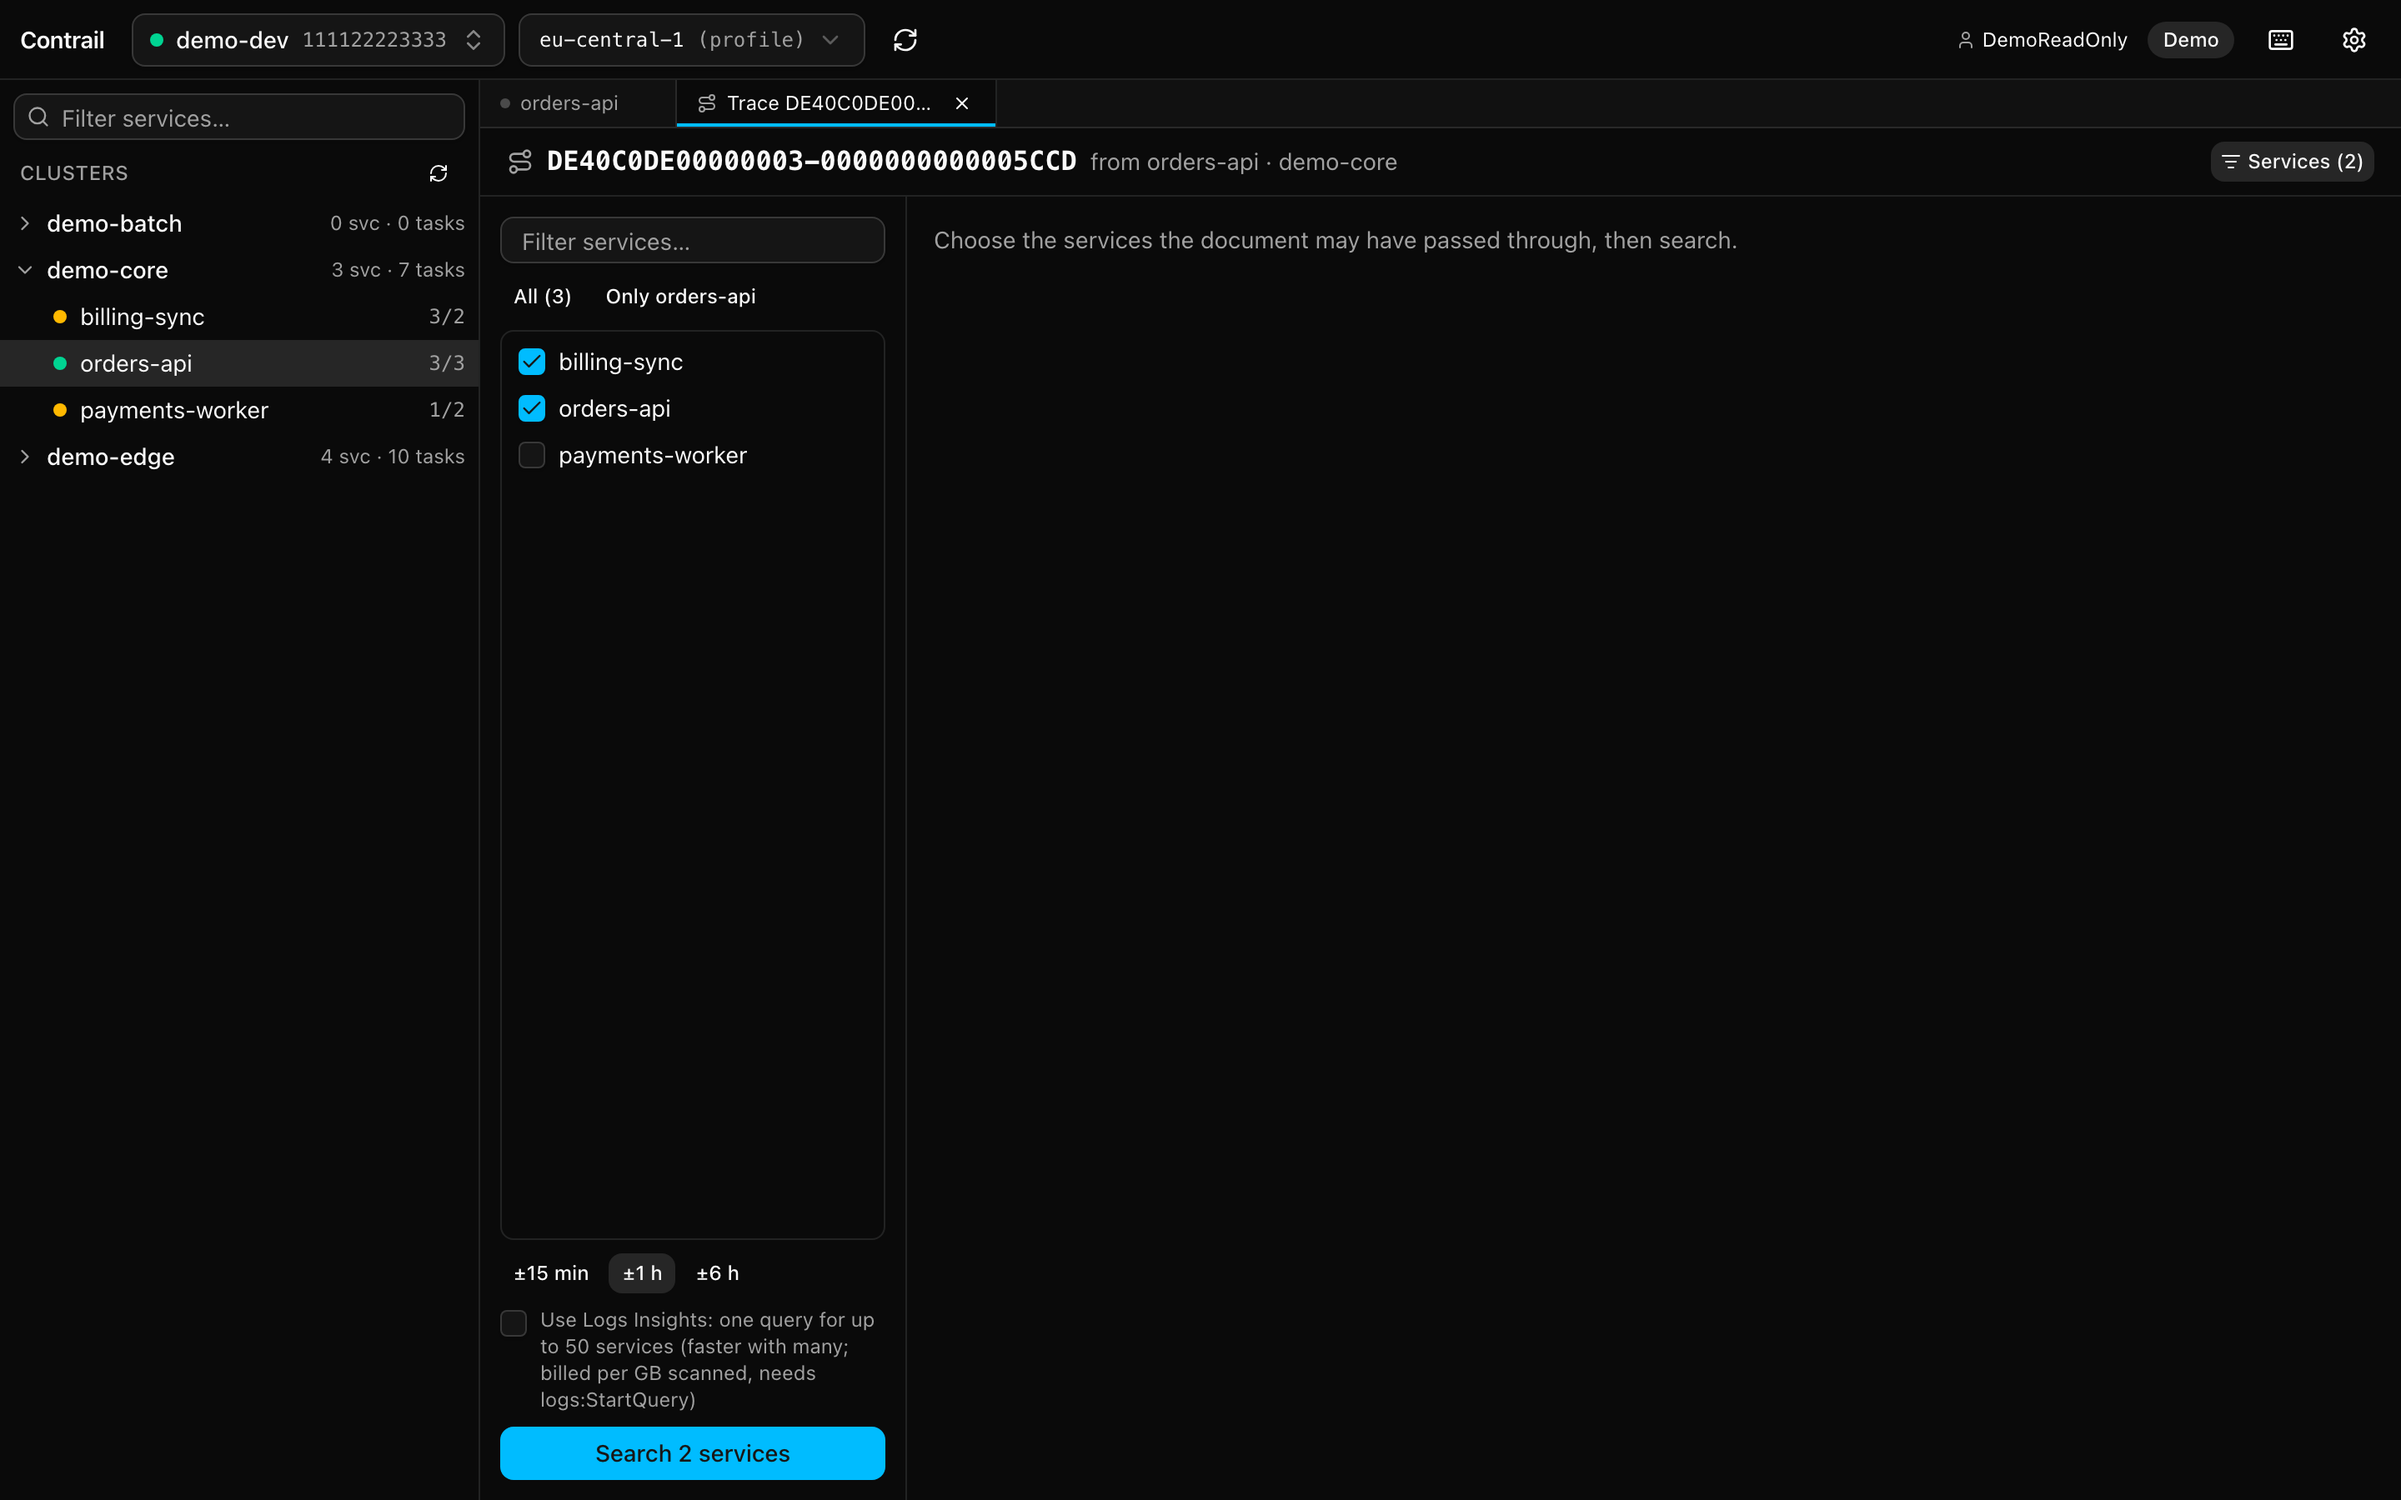
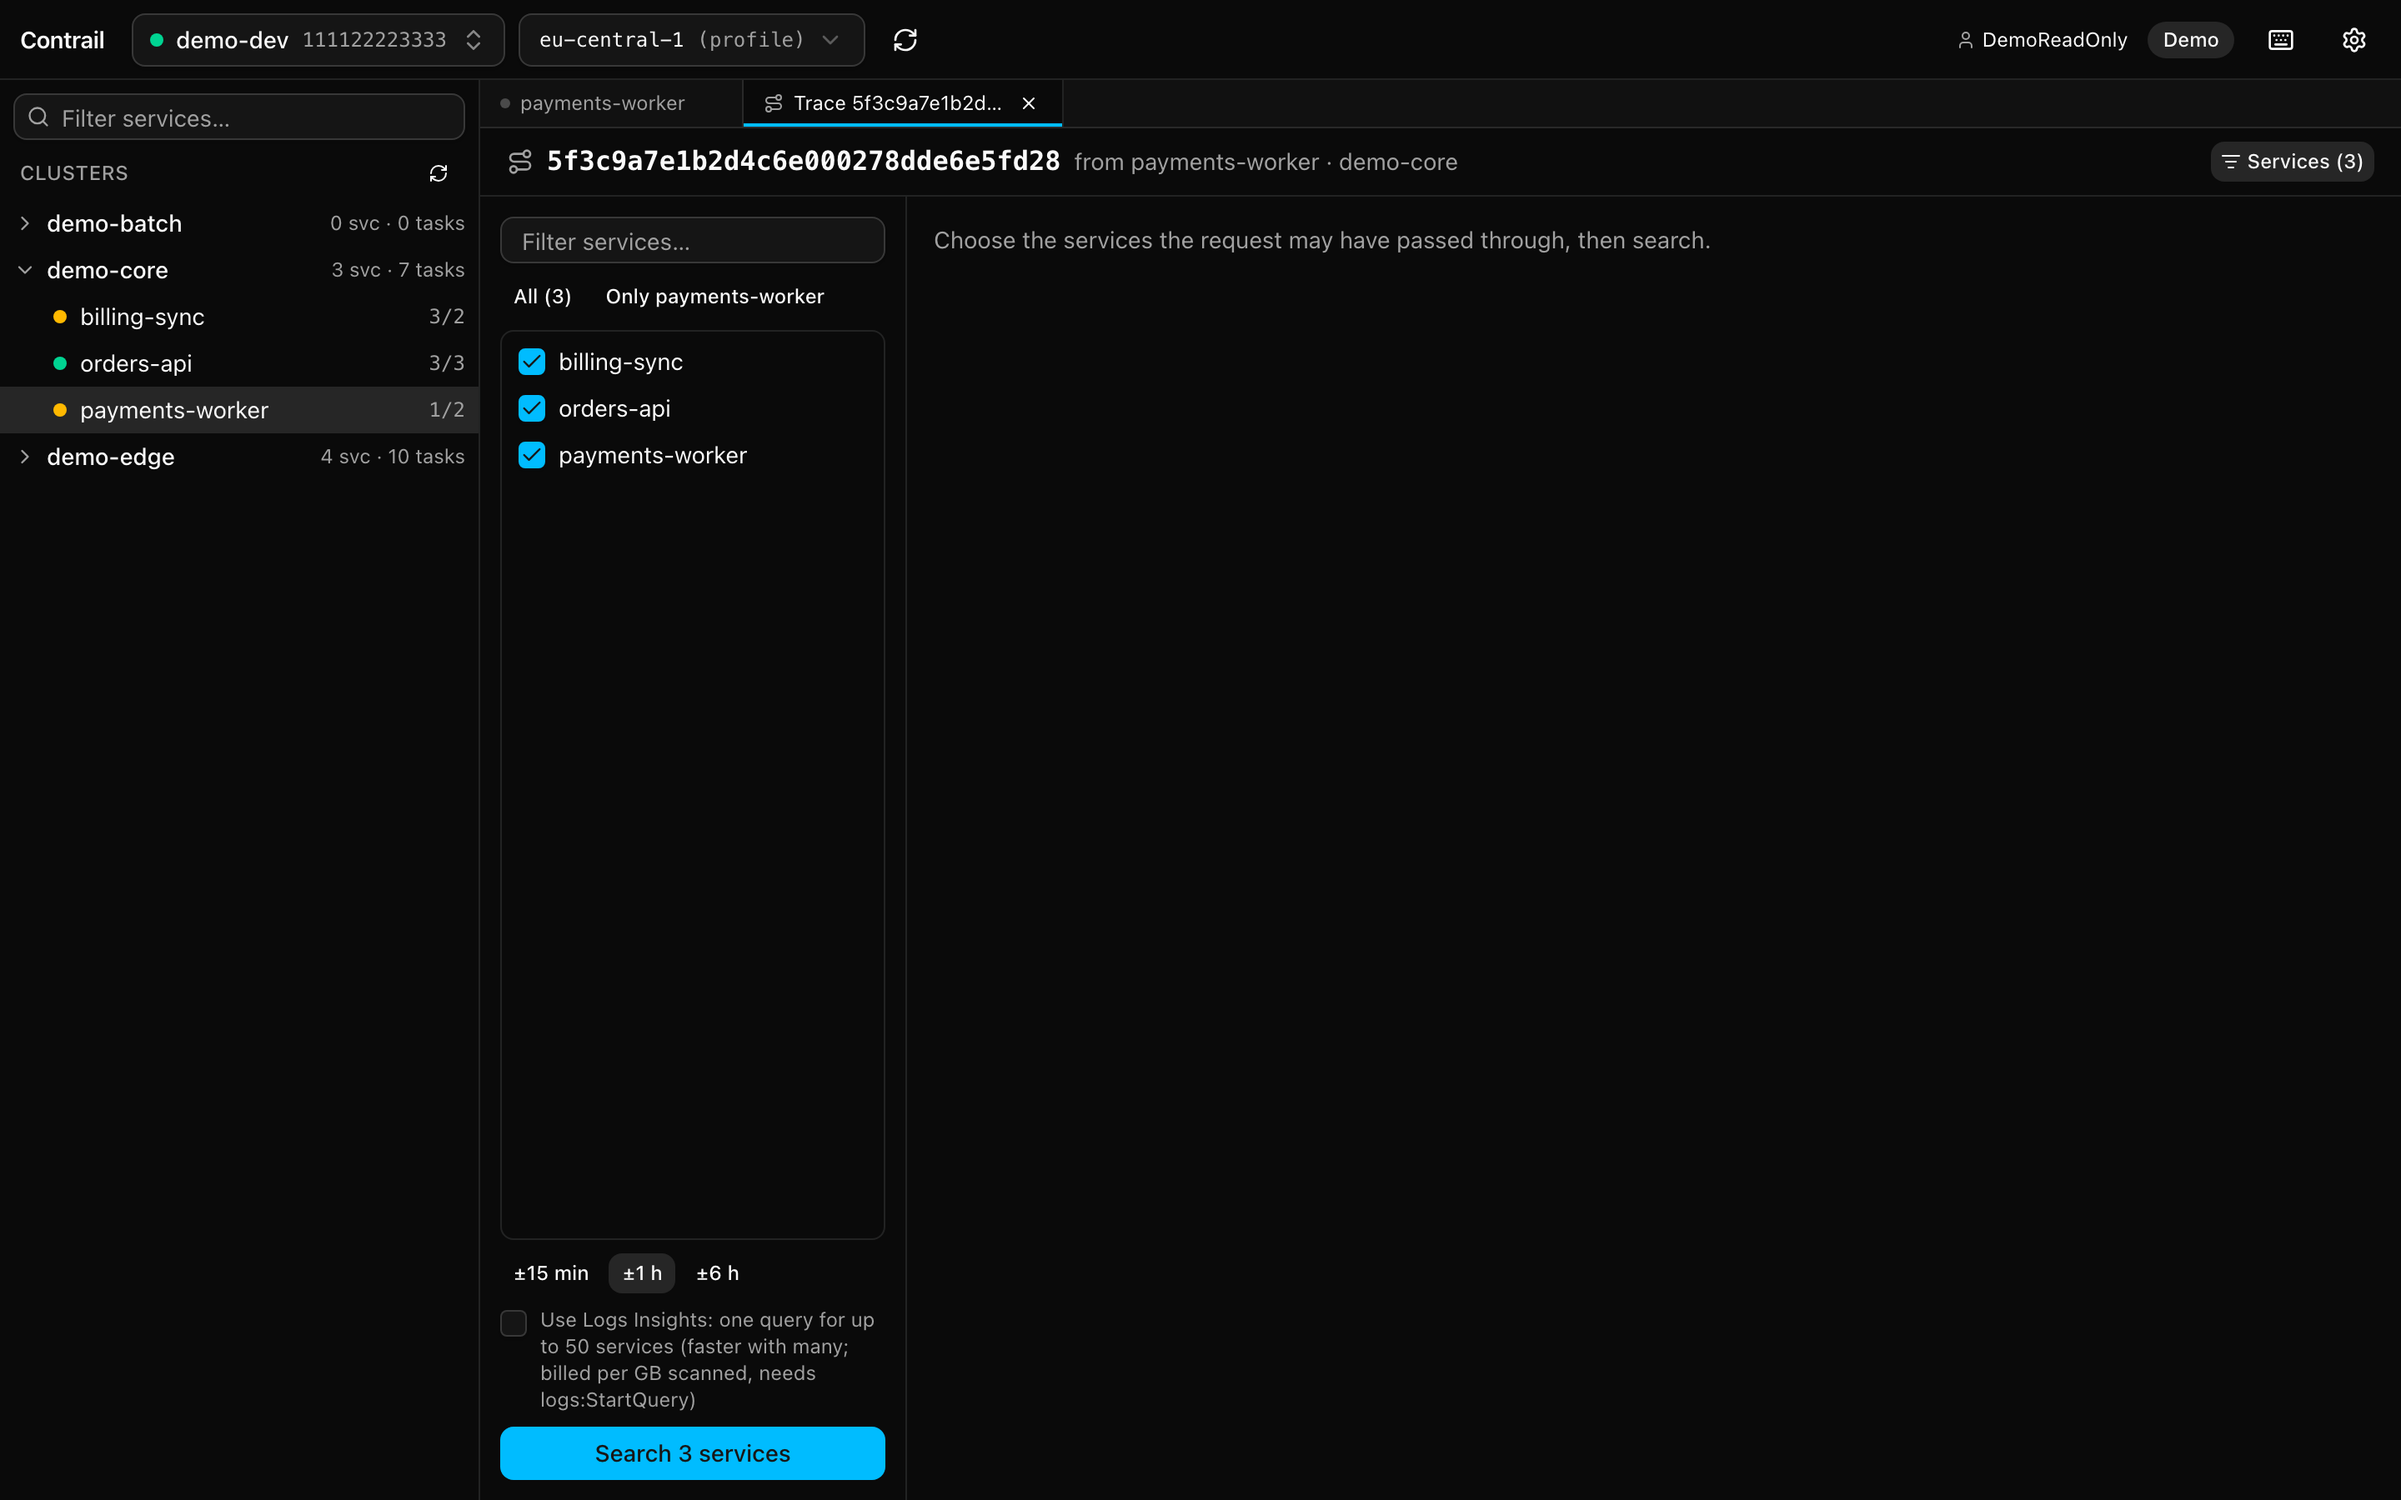
docs: keep the status-event framework out of the public docs
Search syntax, user guide, landing page and screenshots now show plain
ECS logs and an API request traced by its trace ID.

diff --git a/app/ui/e2e/site-screenshots.e2e.ts b/app/ui/e2e/site-screenshots.e2e.ts
@@ -51,16 +51,16 @@ async function shoot(page: Page, name: string) {
   }
 }
 
-/** The orders API's logs, a screenful of them. */
-async function ordersLogs(page: Page) {
-  const view = await openLogs(page, "demo-core", "orders-api");
+/** The payments service's logs, a screenful of them (plain ECS JSON with stack traces). */
+async function paymentsLogs(page: Page) {
+  const view = await openLogs(page, "demo-core", "payments-worker");
   await expect(
     view.getByRole("list", { name: "Log events" }).getByRole("listitem"),
   ).not.toHaveCount(0);
 }
 
 test("log view", async ({ page }) => {
-  await ordersLogs(page);
+  await paymentsLogs(page);
   await shoot(page, "logs");
 });
 
@@ -77,11 +77,15 @@ test("search", async ({ page }) => {
   await shoot(page, "search");
 });
 
-/** One shot per step of the tracing guide (site/src/content/docs/guides/tracing.mdx). */
+/**
+ * One shot per step of the tracing guide (site/src/content/docs/guides/tracing.mdx): an API
+ * request followed by its trace ID (payments-worker calls orders-api; billing-sync logs the same
+ * demo trace IDs).
+ */
 test("trace across services", async ({ page }) => {
-  const view = await openLogs(page, "demo-core", "orders-api");
+  const view = await openLogs(page, "demo-core", "payments-worker");
   const list = view.getByRole("list", { name: "Log events" });
-  await view.getByRole("textbox", { name: "Search logs" }).fill("FAILED");
+  await view.getByRole("textbox", { name: "Search logs" }).fill("POST");
   await expect(view.getByLabel("Match count")).toContainText(/^\d+ of \d+$/);
   await list.getByRole("listitem").first().getByRole("button").first().click();
   const start = page.getByRole("button", { name: "Trace across services" });
@@ -90,18 +94,17 @@ test("trace across services", async ({ page }) => {
 
   await start.click();
   const trace = page.getByRole("main", { name: /^Trace / });
-  // billing-sync logs the same demo documents, so the way leads through two services.
+  await trace.getByRole("checkbox", { name: "orders-api" }).click();
   await trace.getByRole("checkbox", { name: "billing-sync" }).click();
   await shoot(page, "trace-services");
 
-  await trace.getByRole("button", { name: "Search 2 services" }).click();
-  await expect(trace.getByRole("status", { name: "Trace outcome" })).toBeVisible();
+  await trace.getByRole("button", { name: "Search 3 services" }).click();
   await expect(
     trace.getByRole("list", { name: "Services on the way" }).getByRole("listitem"),
-  ).toHaveCount(2);
-  // A failed event expanded, so the picture shows the error next to the way the document took.
+  ).toHaveCount(3);
+  // The first event expanded, so the picture shows an event next to the way the request took.
   const events = trace.getByRole("list", { name: "Trace events" }).getByRole("listitem");
-  await events.filter({ hasText: "FAILED" }).last().getByRole("button").first().click();
+  await events.first().getByRole("button").first().click();
   await shoot(page, "trace");
 });
 
@@ -110,7 +113,7 @@ test("trace across services", async ({ page }) => {
  * of the app in dark mode.
  */
 test("social preview card", async ({ page }) => {
-  await ordersLogs(page);
+  await paymentsLogs(page);
   await page.mouse.move(0, 0);
   await page.waitForTimeout(300);
   const shot = (await page.screenshot()).toString("base64");

diff --git a/docs/query-syntax.md b/docs/query-syntax.md
@@ -12,26 +12,15 @@ to CloudWatch. All terms must match.
 | `level>=WARN` | WARN or ERROR (also `>`, `<`, `<=`; order: TRACE < DEBUG < INFO < WARN < ERROR) |
 | `trace.id:abc123` | the field equals the value (any case) |
 | `log.logger:*Camel*` | the field matches the pattern (`*` any text, `?` one character) |
-| `pipeline.offset>=230000` | a numeric field compared |
+| `http.response.status_code>=500` | a numeric field compared |
 | `task:5f2a` | the task ID starts with "5f2a" |
 | `message:x` | the message contains "x" (same as plain `x`) |
 | `stream:*orders*` | the log stream matches |
 | `-healthcheck` | excludes: any term can be negated |
 
 Field names are the dotted names shown when a line is expanded (`log.logger`, `process.thread.name`,
-`service.version`, custom objects like `pipeline.state`). Values with spaces go in quotes:
+`service.version`, your own objects like `order.id`). Values with spaces go in quotes:
 `log.logger:"com.example.Some Thing"`. Clicking a field value in an expanded line adds it to the search.
-
-**Pipeline status events** (services of a framework that logs one status event per document step, with
-`<prefix>.state` and `<prefix>.correlationId` fields, nested or dotted, or a JSON status line):
-
-| Query | Meaning |
-|---|---|
-| `state:FAILED` | status events in this state (also a plain `state` field) |
-| `correlation:DE40C0DE00000003-0000000000005CC5` | every event of that document (its correlation ID, or any `…correlationId` field) |
-
-Status events get a state badge; the state chips next to the level chips filter by state; an expanded status
-event offers "Show this document".
 
 **Options**
 

diff --git a/docs/user-guide.md b/docs/user-guide.md
@@ -63,8 +63,7 @@ page has the details.
 **Trace across services** on an expanded line with a correlation or trace ID opens a **trace tab**. Choose the
 services of the cluster the request may have passed through (the one you came from is chosen) and the time around
 the event, then search: Contrail searches each service's log group for the ID (`FilterLogEvents`) and shows the
-way it took (services in order with their last state, and whether the document completed or failed) and every
-event with the ID in one timeline.
+way it took (the services in the order the ID reached them) and every event with the ID in one timeline.
 
 - Events expand in place like log lines (fields, stack trace, raw JSON, copy buttons).
 - A service on the way shows only its events; pressed again, all of them.
